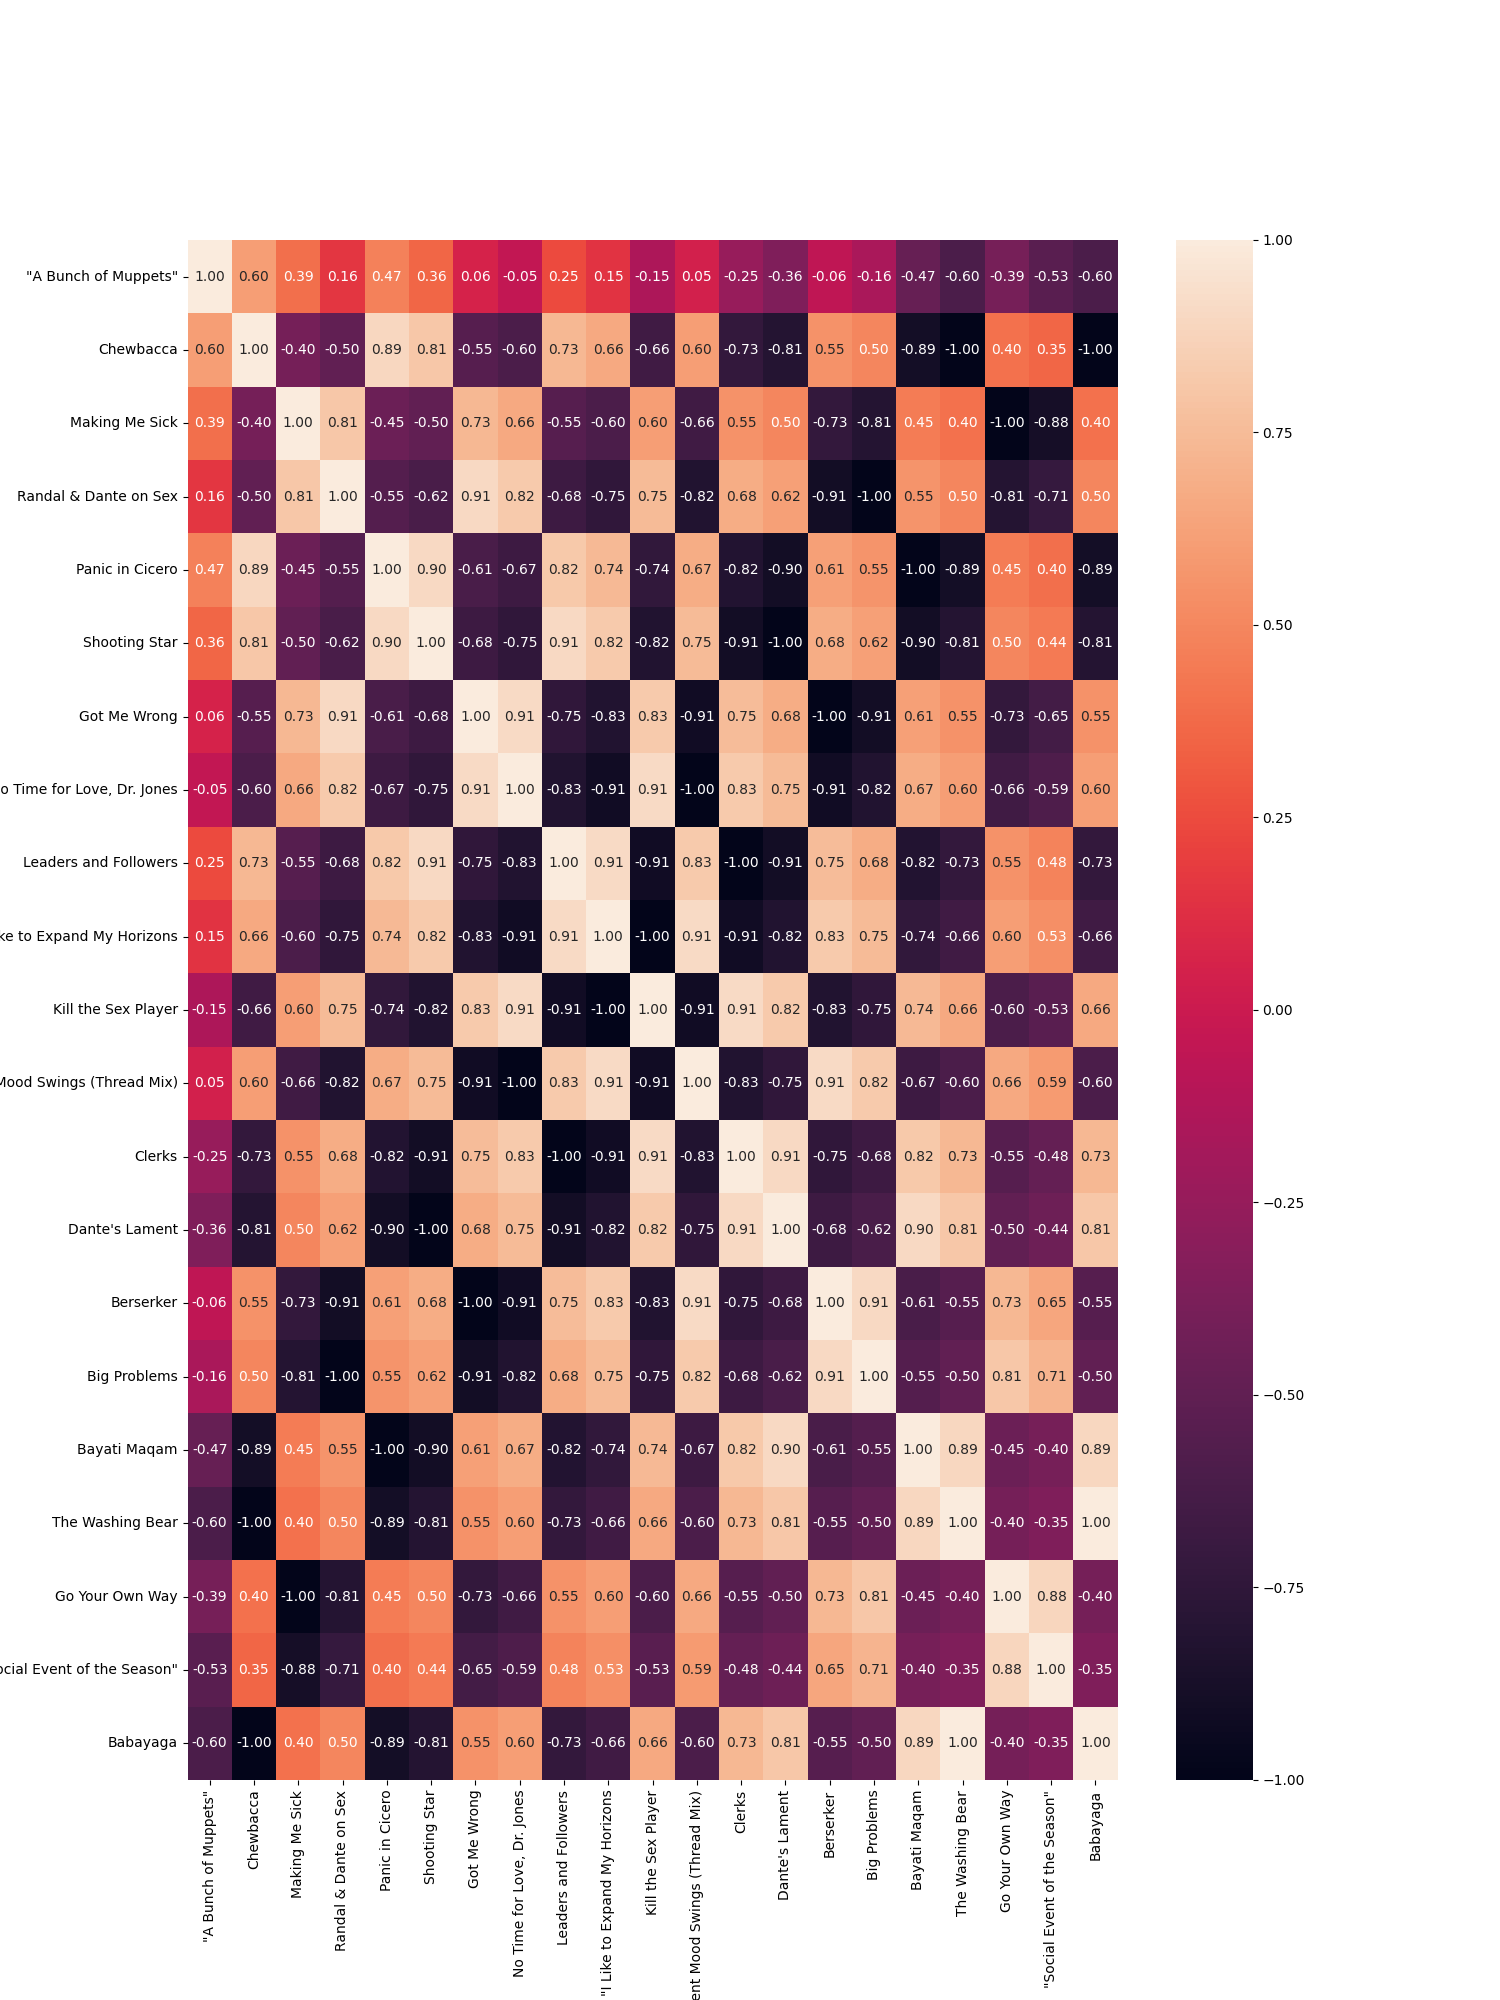
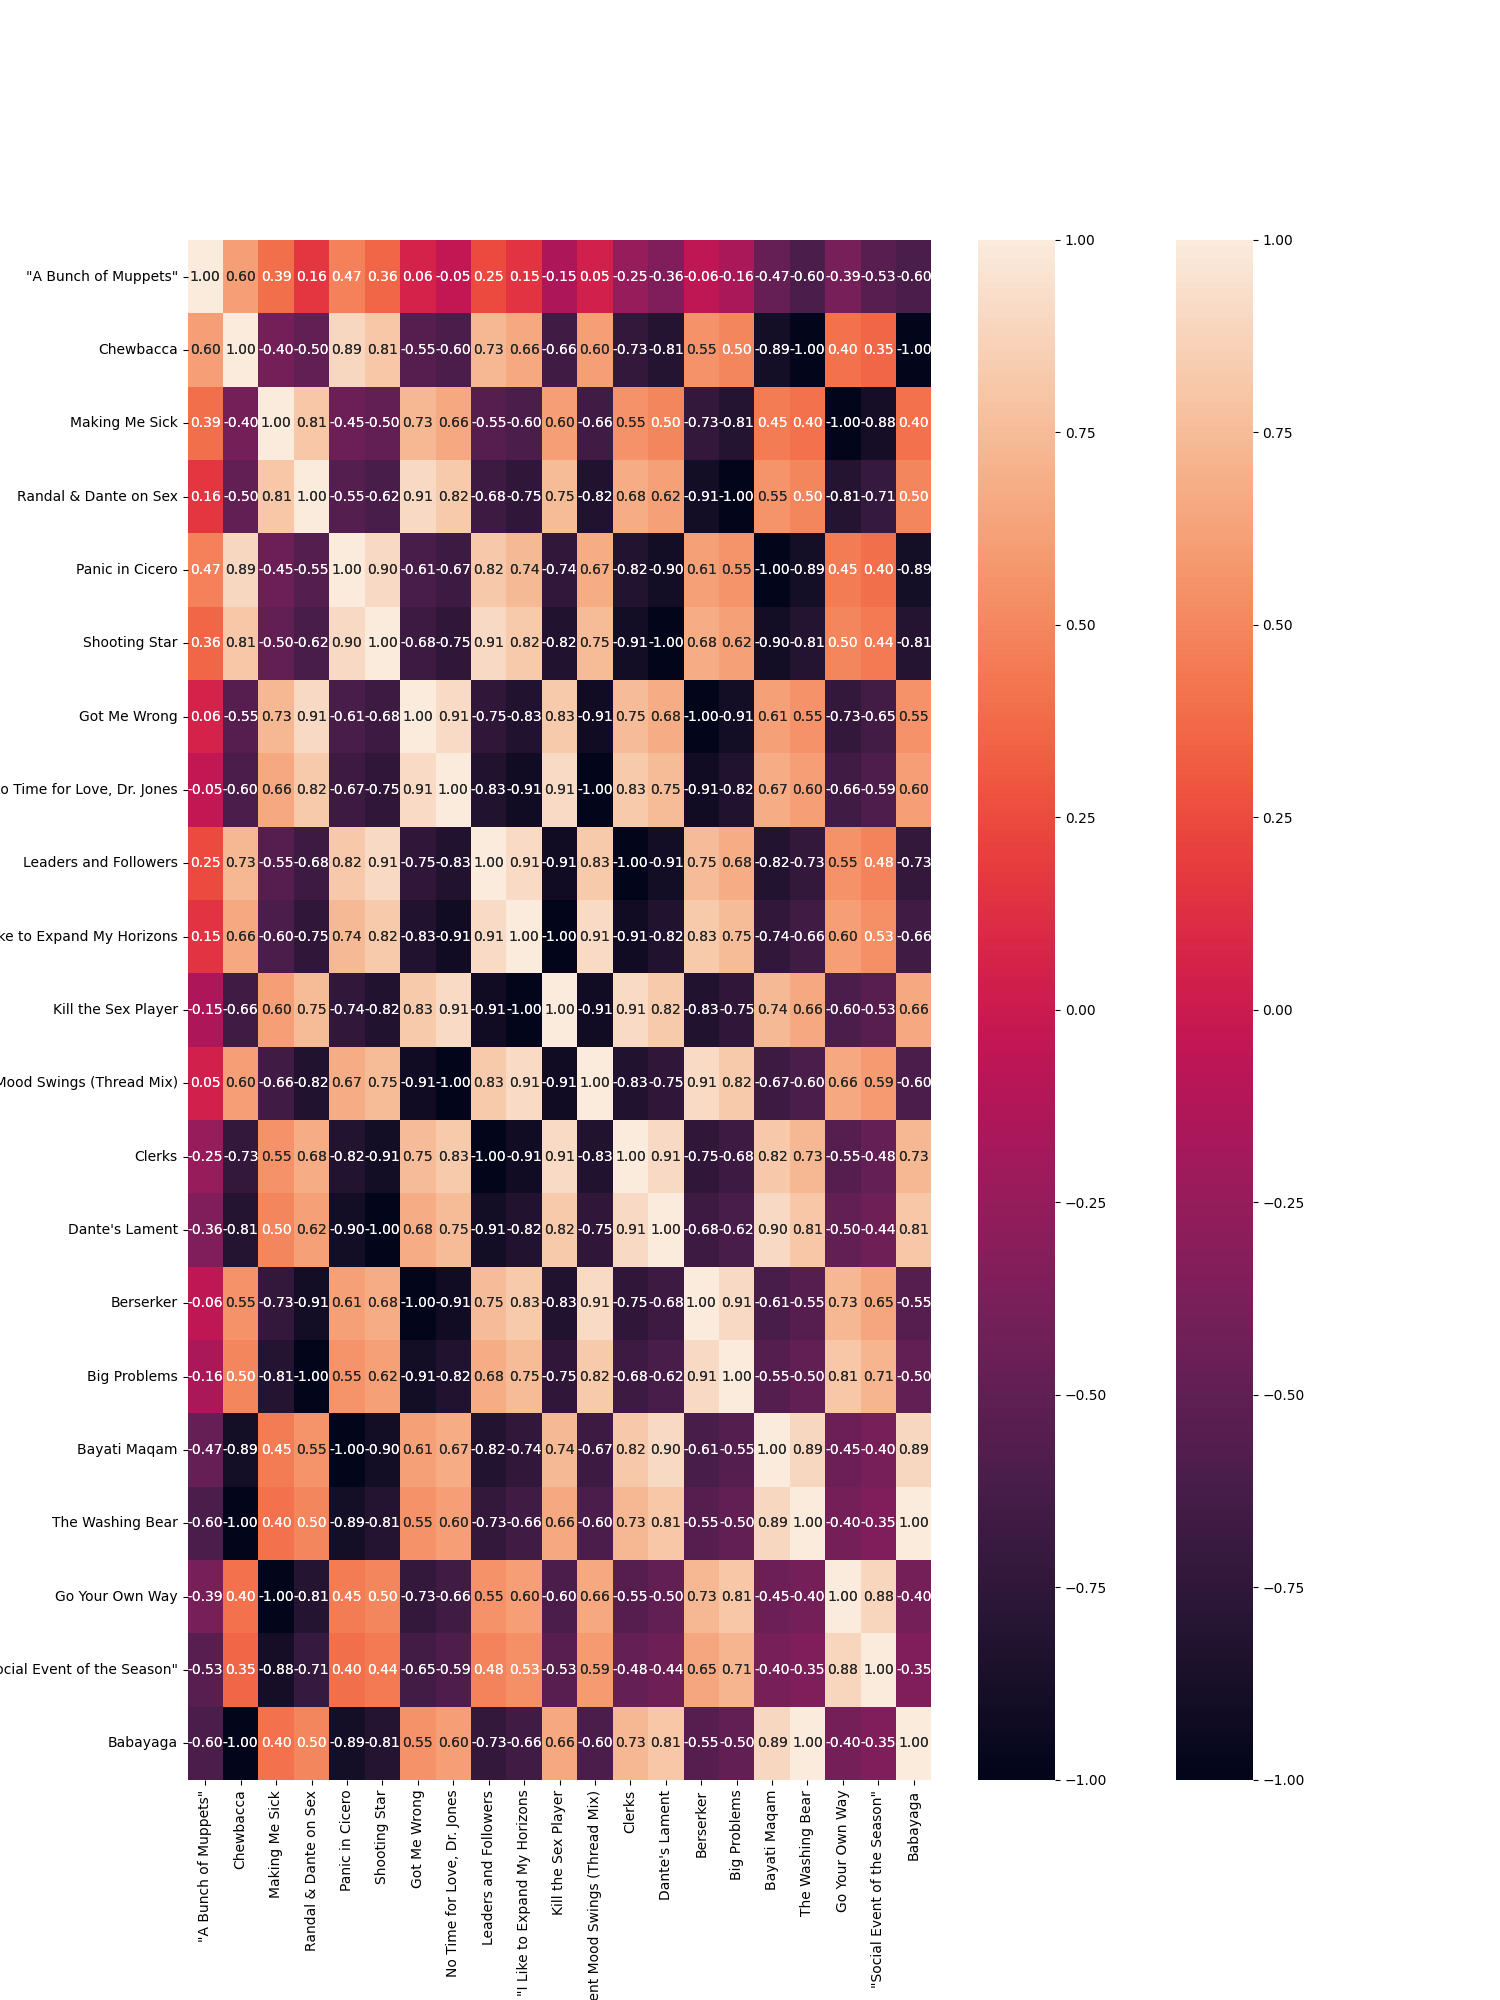
final

diff --git a/spotifysong/plot.py b/spotifysong/plot.py
@@ -14,8 +14,8 @@ def plot_correlation():
     plot correlation's matrix to explore dependency between features 
     '''
     # init figure size
-    data = pd.read_csv('spotifysong/correlation.csv').drop(columns=['Unnamed: 0']).iloc[:11,:11]
-    #data = pd.read_csv('correlation.csv').drop(columns=['Unnamed: 0']).iloc[:11,:11]
+    data = pd.read_csv('spotifysong/correlation.csv').drop(columns=['Unnamed: 0'])
+    #data = pd.read_csv('correlation.csv').drop(columns=['Unnamed: 0'])
     rcParams['figure.figsize'] = 15, 20
     fig = plt.figure()
     sns.heatmap(data.corr(), annot=True, fmt=".2f")
